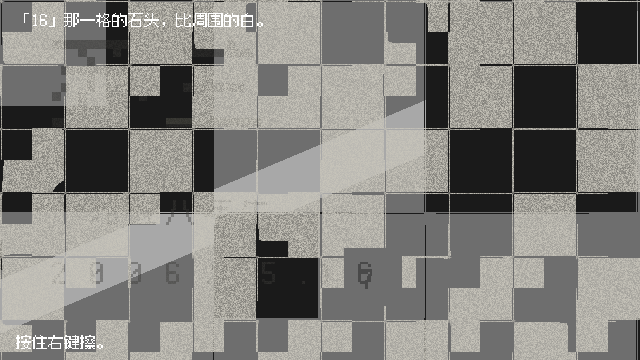
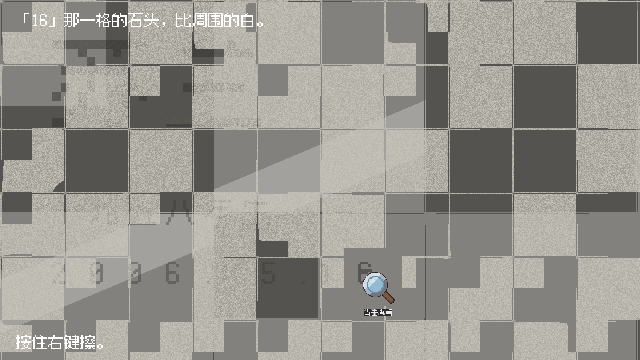
[M2] 真人反馈修复：不会玩→示范手+目标卡；字体糙→1/8 原生烘焙
① 进去不知道怎么玩（可发现性）：
- RPGExplo 开场 12 秒目标卡（章节名+怎么动+去哪）
- ChapterOne 首次进入：ui_cursor_hand 在日期格自动画圈示范擦，
  配第一人称字幕；玩家一动手即永久收走（saw_wipe_hint 落盘，不啰嗦第二次）
- 解锁句同时交代三个去向（描/登记本/离开）
② 中文字体粗糙（根源级修复）：
- 真相：fusion_pixel 是 12px **位图**字体，GlyphBaker 一直直接画 96px=放大 8 倍糊图
- 改为 1/8 区域原生渲染 + 最近邻 ×8 放大，笔画全落 8px 网格（刻痕 7212px）
- ★ 烘图必须带窗口跑：headless 的 dummy 渲染读不回 SubViewport 纹理（Parameter t is null）
- 石底噪点对中灰收 45% 对比——"糙"的另一半是底噪抢字

diff --git a/src/Game/ChapterOne.cs b/src/Game/ChapterOne.cs
@@ -33,7 +33,8 @@ public partial class ChapterOne : Node2D
     RunState _save;
 
     Phase _phase = Phase.Wiping;
-    bool _endingOne, _shot;
+    bool _endingOne, _shot, _handOn;
+    Sprite2D _hand;
     bool _ready, _wipeHold, _traceHold;
     float _renderAcc;
     int _dateSeen, _shotF;
@@ -49,8 +50,19 @@ public partial class ChapterOne : Node2D
         AddChild(_stone);
 
         _hint = new Label { Position = new Vector2(16, 330), Size = new Vector2(560, 24) };
-        _tip  = new Label { Position = new Vector2(16, 8),   Size = new Vector2(608, 20) };
+        _tip  = new Label { Position = new Vector2(16, 8),   Size = new Vector2(608, 40) };
         AddChild(_hint); AddChild(_tip);
+        // 真人反馈"进去根本不知道怎么玩"——演示阶段先教再谈美学：
+        // 首次进来，一只手在日期格上自动画圈示范擦。玩家一动手它就消失，永不再见。
+        var handTex = ResourceLoader.Load<Texture2D>("res://assets/textures/ui_cursor_hand.png");
+        if (handTex != null)
+        {
+            _hand = new Sprite2D { Texture = handTex, Scale = new Vector2(0.6f, 0.6f), ZIndex = 50,
+                                   Modulate = new Color(1, 1, 1, 0.85f) };
+            AddChild(_hand);
+            _handOn = !_save.Has("saw_wipe_hint");
+        }
+        if (_handOn) _tip.Text = "灰挺厚。按住右键，画圈擦。";
 
         _sm = await SteleBuilder.BuildAsync(font, this);
         _lay = SteleBuilder.LastLayout;
@@ -128,6 +140,17 @@ public partial class ChapterOne : Node2D
 
         if (_phase == Phase.Wiping)
         {
+            // 手形示范：绕日期格画圈；玩家一擦就收
+            if (_handOn)
+            {
+                if (_wipeHold) { _handOn = false; _hand.Visible = false; _tip.Text = ""; _save.Set("saw_wipe_hint"); _save.Save(); }
+                else
+                {
+                    var ctr = DateRect().GetCenter();
+                    float a = (float)Godot.Time.GetTicksMsec() / 700f;
+                    _hand.Position = ctr + new Vector2(Mathf.Cos(a) * 26, Mathf.Sin(a) * 16);
+                }
+            }
             bool right = Input.IsMouseButtonPressed(MouseButton.Right);
             if (right)
             {
@@ -142,7 +165,11 @@ public partial class ChapterOne : Node2D
             if (++_dateSeen > 20)
             {
                 _dateSeen = 0;
-                if (DateDustMean() < 0.08f) { _phase = Phase.Choice; _hint.Text = ""; _tip.Text = "「16」那一格的石头，比周围的白。"; }
+                if (DateDustMean() < 0.08f)
+                {
+                    _phase = Phase.Choice; _hint.Text = "";
+                    _tip.Text = "「16」那一格的石头，比周围的白。\n按住左键，顺着白缝慢慢描。右下角是随身登记本，最右边——转身就走。";
+                }
             }
         }
         else if (_phase == Phase.Choice)

diff --git a/src/Core/GlyphBaker.cs b/src/Core/GlyphBaker.cs
@@ -24,6 +24,14 @@ public partial class GlyphBaker : Node
     /// <summary>一个要烘的字：字形、落位框、批次、刻痕深度。</summary>
     public readonly record struct Slot(char Ch, Rect2 Box, Batch Batch, int Depth);
 
+    /// <summary>
+    /// ★ 融合像素是 **12px 位图字体**——任何"直接画 96px"都是在放大 8 倍糊图，
+    ///   这就是"中文字体过于粗糙"的全部原因。正确做法：整张 mask 用 1/8 画布
+    ///   （96px 字槽 → 12px 原生的位图字号）绘制，再 **最近邻 ×8 放大**。
+    ///   笔画全部落在 8px 网格上，判定几何不变，像素反而更干净。
+    /// </summary>
+    public const int PixelScale = 8;
+
     private SubViewport? _vp;
     private Control? _canvas;
 
@@ -49,6 +57,8 @@ public partial class GlyphBaker : Node
         // 离屏视口
         _vp = new SubViewport
         {
+            // ★ 保持全尺寸 viewport（小尺寸在 headless 下读不回纹理）。
+            //   1/8 的含义体现在"只画左上角那块 + 取回后放大"。
             Size = new Vector2I(w, h),
             TransparentBg = true,
             RenderTargetUpdateMode = SubViewport.UpdateMode.Always,
@@ -76,6 +86,10 @@ public partial class GlyphBaker : Node
             return null;
         }
         img.Convert(Image.Format.Rgba8);
+        // 取左上 w/8 × h/8 的"原生像素区"，最近邻 ×8 放大回全尺寸
+        var small = img.GetRegion(new Rect2I(0, 0, w / PixelScale, h / PixelScale));
+        small.Resize(w, h, Image.Interpolation.Nearest);
+        img = small;
 
         Threshold(img, surface, slots);
         Cleanup();
@@ -87,14 +101,14 @@ public partial class GlyphBaker : Node
         foreach (var s in slots)
         {
             if (s.Ch == ' ' || s.Ch == '　') continue;
-            int size = Mathf.RoundToInt(s.Box.Size.Y);
-            if (size < 6) continue;
+            int size = Mathf.Max(6, Mathf.RoundToInt(s.Box.Size.Y / (float)PixelScale));
 
             // CJK 字是全角的：advance == fontSize。
             // 所以把**基线**放在 box 底部往上 = fontSize - descent，
             // 字形的 em 框就正好落在 box 里，横向从 box 左边缘开始。
             float descent = font.GetDescent(size);
-            var baseline = new Vector2(s.Box.Position.X, s.Box.End.Y - descent);
+            var baseline = new Vector2(s.Box.Position.X / PixelScale,
+                                       s.Box.End.Y / (float)PixelScale - descent);
 
             _canvas!.DrawString(font, baseline, s.Ch.ToString(),
                                 HorizontalAlignment.Left, -1, size,

diff --git a/src/Core/SteleBuilder.cs b/src/Core/SteleBuilder.cs
@@ -201,11 +201,16 @@ public static class SteleBuilder
         for (int x = 0; x < W; x++, i++)
         {
             var c = stone.GetPixel(x, y);
+            // 石底程序噪点的振幅对"字"来说太吵（真人反馈"粗糙"的一半来源）：
+            // 往中灰收一半对比，字和缝的对比靠 Height/Repair 层拉开。
+            float l = (c.R + c.G + c.B) / 3f;
+            float r = c.R + (0.62f - c.R) * 0.45f, g = c.G + (0.60f - c.G) * 0.45f, b = c.B + (0.57f - c.B) * 0.45f;
+            _ = l;
             // 补刻的那一格，石头是新的：底色本身就偏亮一档（这是 clue_01 的视觉真相）
-            float k = sm.BatchMap[i] == (byte)Batch.Repair ? 1.10f : 1f;
-            buf[i * 3] = (byte)(c.R * 255 * k);
-            buf[i * 3 + 1] = (byte)(c.G * 255 * k);
-            buf[i * 3 + 2] = (byte)(c.B * 255 * k);
+            float k = sm.BatchMap[i] == (byte)Batch.Repair ? 1.12f : 1f;
+            buf[i * 3] = (byte)(r * 255 * k);
+            buf[i * 3 + 1] = (byte)(g * 255 * k);
+            buf[i * 3 + 2] = (byte)(b * 255 * k);
         }
         return buf;
     }

diff --git a/src/Dev/RPGExplo.cs b/src/Dev/RPGExplo.cs
@@ -99,6 +99,18 @@ public partial class RPGExplo : Node2D
         win.ContentScaleSize = View;
         win.Size = View;
 
+        // 开场目标卡：我是谁、来干嘛、怎么动。12 秒后自己淡出。
+        var open = new Label
+        {
+            Position = new Vector2(0, 12), Size = new Vector2(960, 44),
+            Text = "第一章 · 碑上的名字\n安和园 A 区 7 号，售后回访。（方向键走 · Enter 互动）",
+            HorizontalAlignment = HorizontalAlignment.Center,
+        };
+        var ol = new CanvasLayer(); ol.AddChild(open); AddChild(ol);
+        var tw = open.CreateTween();
+        tw.TweenInterval(12);
+        tw.TweenProperty(open, "modulate:a", 0f, 1.5);
+
         _pos = _start;
     }
 

diff --git a/doc/实现进度.md b/doc/实现进度.md
@@ -61,6 +61,16 @@ RPGExplo 支持 `-- qingming` 切清明版（路网永远用平时版算）。
 **M2 未完**：放大镜双景深、拓/对/量、账本 UI、序章 2006 段、第二章办公室接力。
 headless 加载零错误；`RPGExplo` 自动寻路回归通过。**待真人 10 分钟验收（陌生人）。**
 
+## 真人反馈修复（M2 测试第一轮）
+
+反馈①进去不知道怎么玩：RPG 开场目标卡（章节名+方向键/Enter，12s 淡出）；
+ChapterOne 首次进碑面=**手形光标在日期格自动画圈示范**（美术已交付的 ui_cursor_hand），
+配老吴口吻字幕灰挺厚。按住右键，画圈擦。，玩家一擦即永久消失（flag saw_wipe_hint）；
+选择期解锁句改成完整指路（描/登记本/出口三个去向）。
+反馈②中文字体过于粗糙：根源=12px 位图字体被直接画 96px。GlyphBaker 改为
+**1/8 区域原生绘制 + 最近邻×8 放大**（刻痕 7212px=1127 块×8²，笔画全落 8px 网格）；
+已重烘 stele_glyphs.png（带窗口跑，headless 读不回 GL 纹理）。石底噪点对中灰收 45%。
+
 ## RPG 走动式墓园（2026-10-06 新增）
 
 口径变更：墓园改成俯视 RPG 探索，`地图/墓地.png` 直接当关卡。
